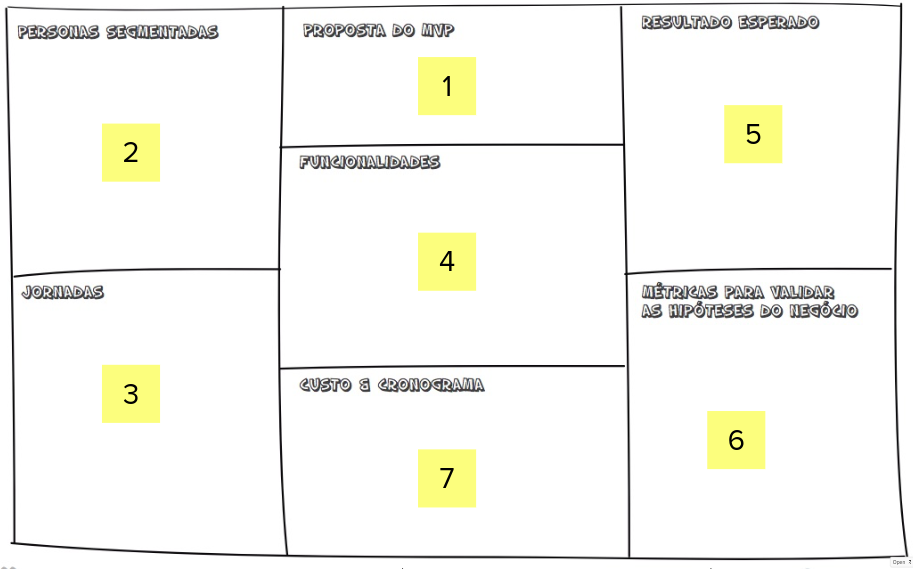
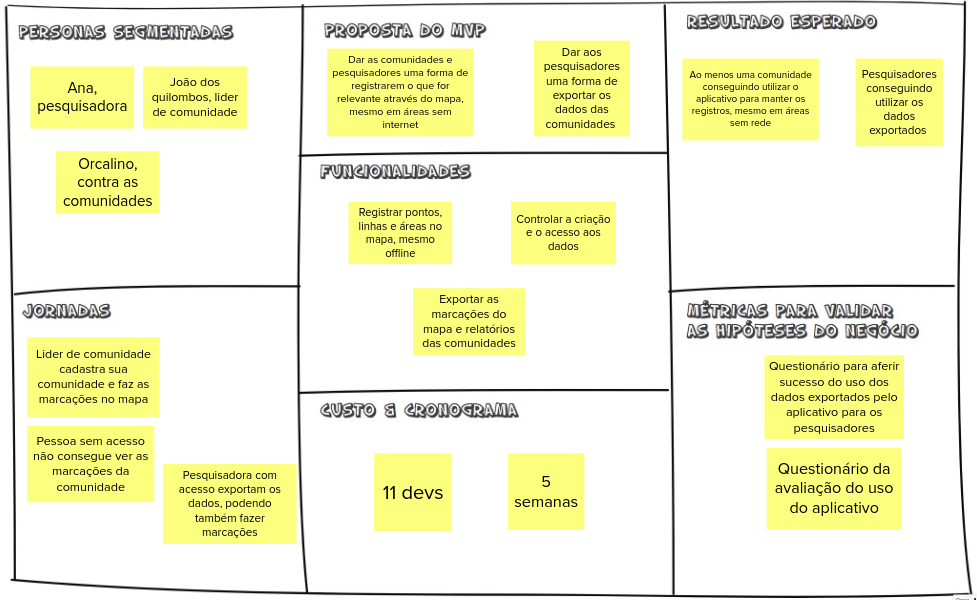
Reorganiza wiki e insere link do  MURAL como um todo

diff --git a/docs/leanInception.md b/docs/leanInception.md
@@ -144,8 +144,25 @@ O Canvas MVP é um quadro visual que auxilia a equipe a alinhar e definir a estr
 
 [<div align="center"><img width="auto" height="auto" src="../img/leanInception/canvas.png"/></div>](../../img/leanInception/canvas.png)
 
+
+# MURAL
+
+O MURAL completo e navegável contendo todas as etapas aqui descrita pode ser enalisado clicando sobre a imagem abaixo.
+
+<figcaption><center>
+    <b>Figura 14- MURAL completo</b>
+</figcaption>
+
+[<div align="center"><img width="auto" height="auto" src="../img/leanInception/mural.png"/></div>](https://app.mural.co/invitation/mural/unbfgaepsmds202111846/1644326822459?sender=ua4a5d97b99aa0006fa2a0546&key=b27666d4-fc69-4956-b5bc-db92c3f240d1)
+
+
+## Referências
+
+**CAROLI, Paulo**. _Lean Inception: como alinhar pessoas e construir o produto certo_, 2019.
+
 ### Histórico de versão
 
 |Data | Versão | Descrição | Autor(es)
 | -- | -- | -- | -- |
 | 06.03.2022 | 1.0 | Adição do conteúdo produzido durante o processo de Lean Inception | Rafaella Junqueira |
+| 10.03.2022 | 1.1 | Adição do direcionador ao MURAL do Lean Inception | Rafaella Junqueira |
